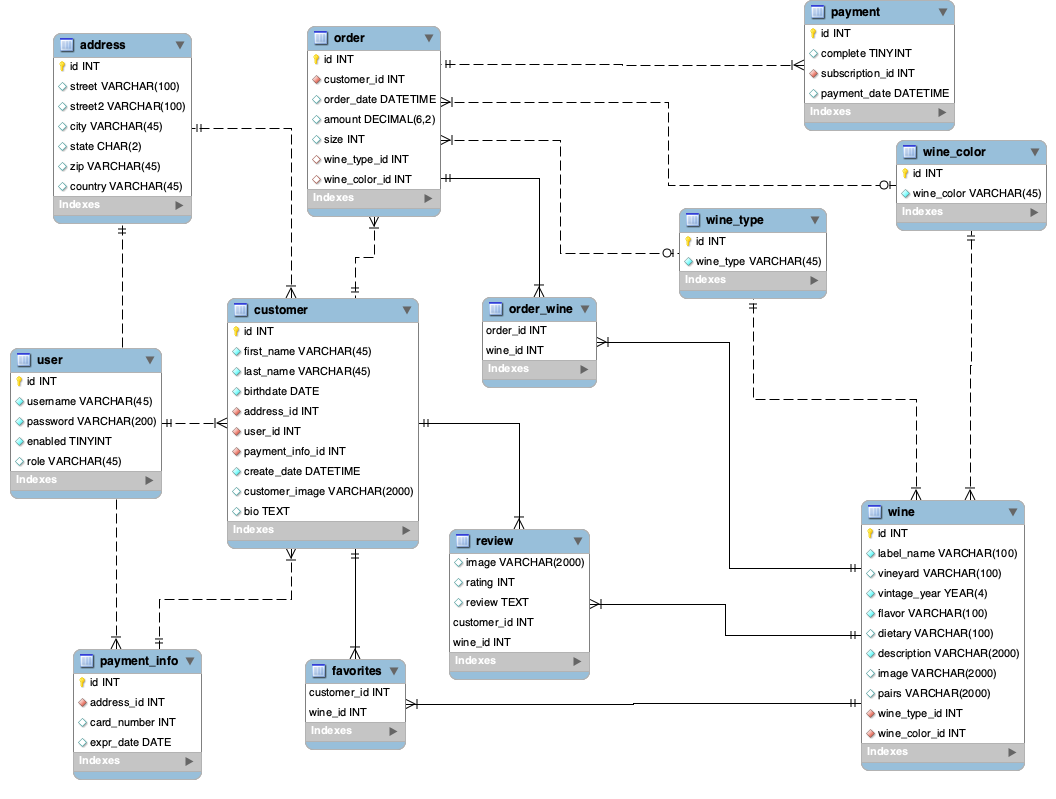
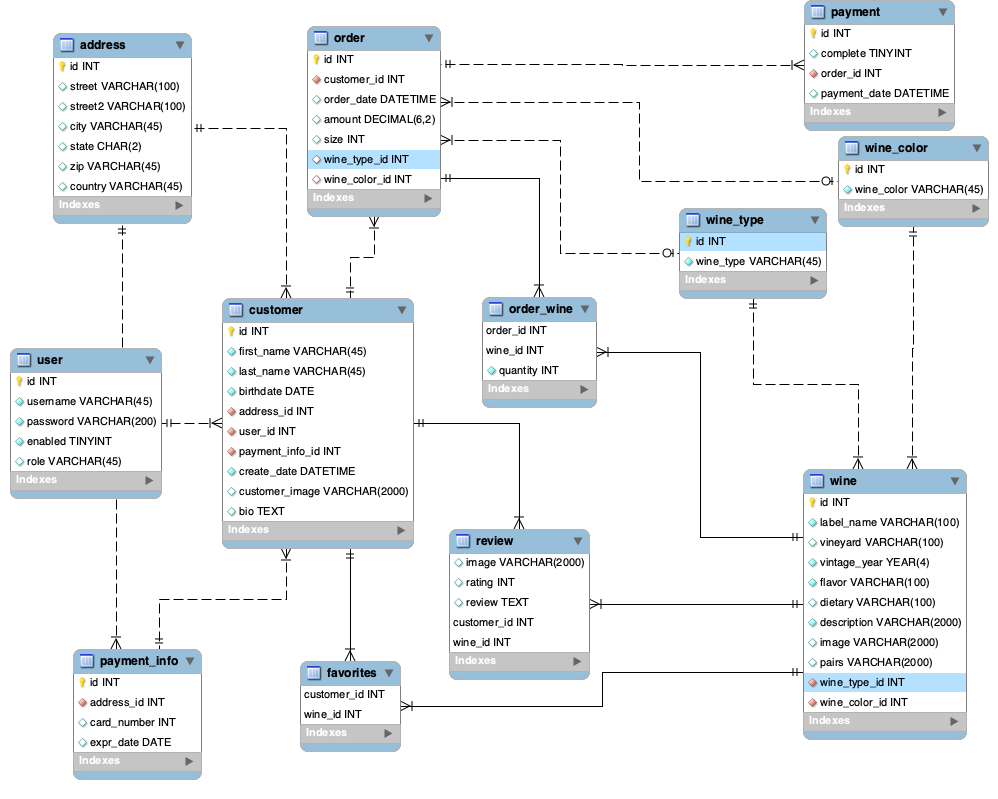
wine color/type entities and junits added

diff --git a/JPAWineNot/src/main/java/com/skilldistillery/winenot/entities/WineColor.java b/JPAWineNot/src/main/java/com/skilldistillery/winenot/entities/WineColor.java
@@ -1,0 +1,51 @@
+package com.skilldistillery.winenot.entities;
+
+import javax.persistence.Column;
+import javax.persistence.Entity;
+import javax.persistence.GeneratedValue;
+import javax.persistence.GenerationType;
+import javax.persistence.Id;
+import javax.persistence.Table;
+
+@Entity
+@Table(name="wine_color")
+public class WineColor {
+	@Id
+	@GeneratedValue(strategy = GenerationType.IDENTITY)
+	private int id;
+	@Column(name = "wine_color")
+	private String wineColor;
+	public int getId() {
+		return id;
+	}
+	public void setId(int id) {
+		this.id = id;
+	}
+	public String getWineColor() {
+		return wineColor;
+	}
+	public void setWineColor(String wineColor) {
+		this.wineColor = wineColor;
+	}
+	@Override
+	public int hashCode() {
+		final int prime = 31;
+		int result = 1;
+		result = prime * result + id;
+		return result;
+	}
+	@Override
+	public boolean equals(Object obj) {
+		if (this == obj)
+			return true;
+		if (obj == null)
+			return false;
+		if (getClass() != obj.getClass())
+			return false;
+		WineColor other = (WineColor) obj;
+		if (id != other.id)
+			return false;
+		return true;
+	}
+
+}

diff --git a/JPAWineNot/src/test/java/com/skilldistillery/winenot/entities/WineColorTest.java b/JPAWineNot/src/test/java/com/skilldistillery/winenot/entities/WineColorTest.java
@@ -1,0 +1,48 @@
+package com.skilldistillery.winenot.entities;
+
+import static org.junit.jupiter.api.Assertions.*;
+
+import javax.persistence.EntityManager;
+import javax.persistence.EntityManagerFactory;
+import javax.persistence.Persistence;
+
+import org.junit.jupiter.api.AfterAll;
+import org.junit.jupiter.api.AfterEach;
+import org.junit.jupiter.api.BeforeAll;
+import org.junit.jupiter.api.BeforeEach;
+import org.junit.jupiter.api.Test;
+
+class WineColorTest {
+
+	private static EntityManagerFactory emf;
+	private EntityManager em;
+	private WineColor wineColor;
+
+	@BeforeAll
+	static void setUpBeforeClass() throws Exception {
+		emf = Persistence.createEntityManagerFactory("WineNotPU");
+	}
+
+	@AfterAll
+	static void tearDownAfterClass() throws Exception {
+		emf.close();
+	}
+
+	@BeforeEach
+	void setUp() throws Exception {
+		em = emf.createEntityManager();
+		wineColor = em.find(WineColor.class, 1);
+	}
+
+	@AfterEach
+	void tearDown() throws Exception {
+		em.close();
+	}
+
+	@Test
+	void test_user_get_username() {
+		assertNotNull(wineColor);
+		assertEquals("red", wineColor.getWineColor());
+	}
+
+}

diff --git a/JPAWineNot/src/test/java/com/skilldistillery/winenot/entities/WineTypeTest.java b/JPAWineNot/src/test/java/com/skilldistillery/winenot/entities/WineTypeTest.java
@@ -1,0 +1,48 @@
+package com.skilldistillery.winenot.entities;
+
+import static org.junit.jupiter.api.Assertions.*;
+
+import javax.persistence.EntityManager;
+import javax.persistence.EntityManagerFactory;
+import javax.persistence.Persistence;
+
+import org.junit.jupiter.api.AfterAll;
+import org.junit.jupiter.api.AfterEach;
+import org.junit.jupiter.api.BeforeAll;
+import org.junit.jupiter.api.BeforeEach;
+import org.junit.jupiter.api.Test;
+
+class WineTypeTest {
+
+	private static EntityManagerFactory emf;
+	private EntityManager em;
+	private WineType wineType;
+
+	@BeforeAll
+	static void setUpBeforeClass() throws Exception {
+		emf = Persistence.createEntityManagerFactory("WineNotPU");
+	}
+
+	@AfterAll
+	static void tearDownAfterClass() throws Exception {
+		emf.close();
+	}
+
+	@BeforeEach
+	void setUp() throws Exception {
+		em = emf.createEntityManager();
+		wineType = em.find(WineType.class, 1);
+	}
+
+	@AfterEach
+	void tearDown() throws Exception {
+		em.close();
+	}
+
+	@Test
+	void test_user_get_username() {
+		assertNotNull(wineType);
+		assertEquals("Chardonnay", wineType.getWineType());
+	}
+
+}

diff --git a/JPAWineNot/src/main/java/com/skilldistillery/winenot/entities/WineType.java b/JPAWineNot/src/main/java/com/skilldistillery/winenot/entities/WineType.java
@@ -1,0 +1,51 @@
+package com.skilldistillery.winenot.entities;
+
+import javax.persistence.Column;
+import javax.persistence.Entity;
+import javax.persistence.GeneratedValue;
+import javax.persistence.GenerationType;
+import javax.persistence.Id;
+import javax.persistence.Table;
+
+@Entity
+@Table(name="wine_type")
+public class WineType {
+	@Id
+	@GeneratedValue(strategy = GenerationType.IDENTITY)
+	private int id;
+	@Column(name = "wine_type")
+	private String wineType;
+	public int getId() {
+		return id;
+	}
+	public void setId(int id) {
+		this.id = id;
+	}
+	public String getWineType() {
+		return wineType;
+	}
+	public void setWineType(String wineType) {
+		this.wineType = wineType;
+	}
+	@Override
+	public int hashCode() {
+		final int prime = 31;
+		int result = 1;
+		result = prime * result + id;
+		return result;
+	}
+	@Override
+	public boolean equals(Object obj) {
+		if (this == obj)
+			return true;
+		if (obj == null)
+			return false;
+		if (getClass() != obj.getClass())
+			return false;
+		WineType other = (WineType) obj;
+		if (id != other.id)
+			return false;
+		return true;
+	}
+
+}
